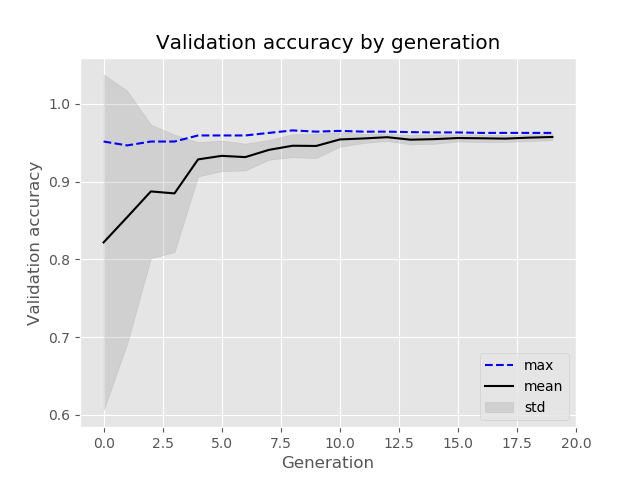
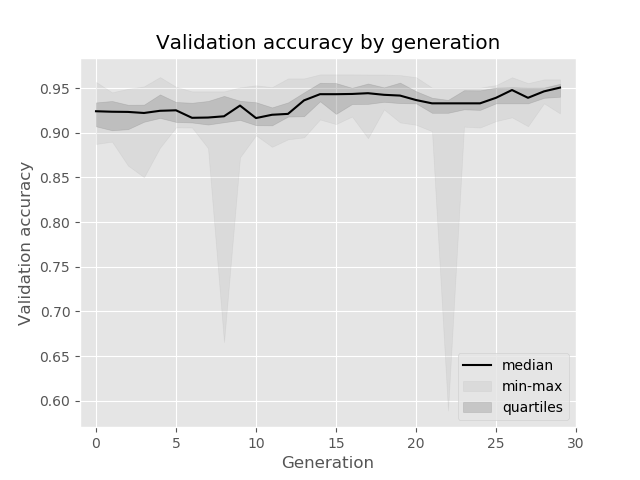
changed plots to displaying quartiles and minmax

diff --git a/naturalselection/core.py b/naturalselection/core.py
@@ -559,8 +559,11 @@ class History():
 
     def plot(self, title = 'Fitness by generation', xlabel = 'Generation',
         ylabel = 'Fitness', file_name = None, show_plot = True,
-        show_max = True, only_show_max = False, discrete = False,
-        legend = True, legend_location = 'lower right'):
+        show_max = False, only_show_max = False, show_min = False,
+        show_minmax_area = True, show_quartile_area = True,
+        show_lower_quartile = False, show_upper_quartile = False,
+        show_median = True, legend = True, legend_location = 'lower right',
+        show_all_lines = False, show_all_areas = True):
         ''' Plot the fitness values.
 
         INPUT
@@ -569,9 +572,21 @@ class History():
             (string) ylabel = 'Fitness': label on the y-axis
             (string) file_name = None: file name to save the plot to
             (bool) show_plot = True: show plot as a pop-up
-            (bool) show_max = True: show max value line on plot
-            (bool) only_show_max = False: Hide the plot with means and stds
-            (bool) discrete = False: make the error plot discrete
+            (bool) show_median = True: show a median value line on plot
+            (bool) show_max = False: show a maximum value line on plot
+            (bool) show_min = False: show a minimum value line on plot
+            (bool) show_lower_quartile = False: show a lower quartile
+                   value line on plot
+            (bool) show_upper_quartile = False: show an upper quartile
+                   value line on plot
+            (bool) show_all_lines = False: show minimum, lower quartile,
+                   median, upper quartile and maximum lines on plot
+            (bool) show_minmax_area = True: show a filled area between the
+                   minima and the maxima on plot
+            (bool) show_quartile_area = True: show a filled area between the
+                   lower and upper quartiles on plot
+            (bool) show_all_areas = True: show minmax and quartile area on plot
+            (bool) only_show_max = False: only show the max value line
             (bool) legend = True: show legend
             (string or int) legend_location = 'lower right': legend location, 
                             either as e.g. 'lower right' or as an integer
@@ -581,16 +596,17 @@ class History():
         fits = self.fitness_history[::-1]
         gens = self.generations
         mem = self.memory
-        means = np.mean(fits, axis = 1)
-        stds = np.std(fits, axis = 1)
         xs = np.arange(mem)
+        xs_shift = xs + (gens - mem)
+
+        meds = np.median(fits, axis = 1)
+        lower_quartiles = np.percentile(fits, 25, axis = 1)
+        upper_quartiles = np.percentile(fits, 75, axis = 1)
         mins = np.array([np.min(fits[x, :]) for x in xs])
+        maxs = np.array([np.max(fits[x, :]) for x in xs])
 
         if gens == 1:
             discrete = True
-
-        if show_max or only_show_max:
-            maxs = np.array([np.max(fits[x, :]) for x in xs])
 
         plt.style.use("ggplot")
         plt.figure()
@@ -599,24 +615,29 @@ class History():
         plt.xlabel(xlabel)
         plt.ylabel(ylabel)
 
-        xs_shift = xs + (gens - mem)
+        if show_max or only_show_max or show_all_lines:
+            plt.plot(xs_shift, maxs[xs], '-', color = 'blue', label = 'max')
 
-        if show_max:
-            plt.plot(xs_shift, maxs[xs], '--', color = 'blue', label = 'max')
-
-        if discrete and not only_show_max:
-            plt.errorbar(xs_shift, means[xs], stds[xs], fmt = 'ok', 
-                label = 'mean and std')
-        elif not only_show_max:
-            plt.plot(xs_shift, means[xs], '-', color = 'black', label = 'mean')
-            plt.fill_between(
-                xs_shift, 
-                means[xs] - stds[xs],
-                means[xs] + stds[xs], 
-                alpha = 0.2, 
-                color = 'gray', 
-                label = 'std'
-                )
+        if not only_show_max:
+            if show_median or show_all_lines:
+                plt.plot(xs_shift, meds[xs], '-', color = 'black', 
+                    label = 'median')
+            if show_min or show_all_lines:
+                plt.plot(xs_shift, mins[xs], '-', color = 'red', 
+                    label = 'min')
+            if show_lower_quartile or show_all_lines:
+                plt.plot(xs_shift, lower_quartiles[xs], ':', color = 'red',
+                    label = 'lower quartile')
+            if show_upper_quartile or show_all_lines:
+                plt.plot(xs_shift, upper_quartiles[xs], ':', color = 'blue',
+                    label = 'upper quartile')
+            if show_minmax_area or show_all_areas:
+                plt.fill_between(xs_shift, mins[xs], maxs[xs], alpha = 0.1, 
+                    color = 'gray', label = 'min-max')
+            if show_quartile_area or show_all_areas:
+                plt.fill_between(xs_shift, lower_quartiles[xs],
+                    upper_quartiles[xs], alpha = 0.3, color = 'gray', 
+                    label = 'quartiles')
 
         if legend:
             plt.legend(loc = legend_location)

diff --git a/nn_example.py b/nn_example.py
@@ -21,12 +21,6 @@ def train_val_sets(kind = 'mnist'):
         import tensorflow.keras.datasets.cifar10 as data
     elif kind == 'cifar100':
         import tensorflow.keras.datasets.cifar100 as data
-    elif kind == 'boston_housing':
-        import tensorflow.keras.datasets.boston_housing as data
-    elif kind == 'imdb':
-        import tensorflow.keras.datasets.imdb as data
-    elif kind == 'reuters':
-        import tensorflow.keras.datasets.reuters as data
     else:
         raise NameError('Dataset not recognised.')
 
@@ -42,7 +36,7 @@ def evolve_nn(kind = 'mnist'):
     if kind == 'mnist':
         max_training_time = 60
     elif kind == 'fashion_mnist':
-        max_training_time = 240
+        max_training_time = 180
     elif kind == 'cifar10':
         max_training_time = 120
     elif kind == 'cifar100':
@@ -53,7 +47,7 @@ def evolve_nn(kind = 'mnist'):
     print(f"\n~~~ Now evolving {kind} ~~~")
 
     nns = ns.NNs(
-        size = 30,
+        size = 20,
         train_val_sets = train_val_sets(kind),
         loss_fn = 'categorical_crossentropy',
         score = 'accuracy',

diff --git a/naturalselection/callbacks.py b/naturalselection/callbacks.py
@@ -14,7 +14,7 @@ class TQDMCallback(Callback):
     def __init__(self, outer_description = "Training",
         inner_description_initial = "Epoch: {epoch}",
         inner_description_update = "Epoch: {epoch} - {metrics}",
-        metric_format = "{name}: {value:0.4f}",
+        metric_format = "{name}: {value:0.3f}",
         separator = ", ",
         leave_inner = True,
         leave_outer = True,
